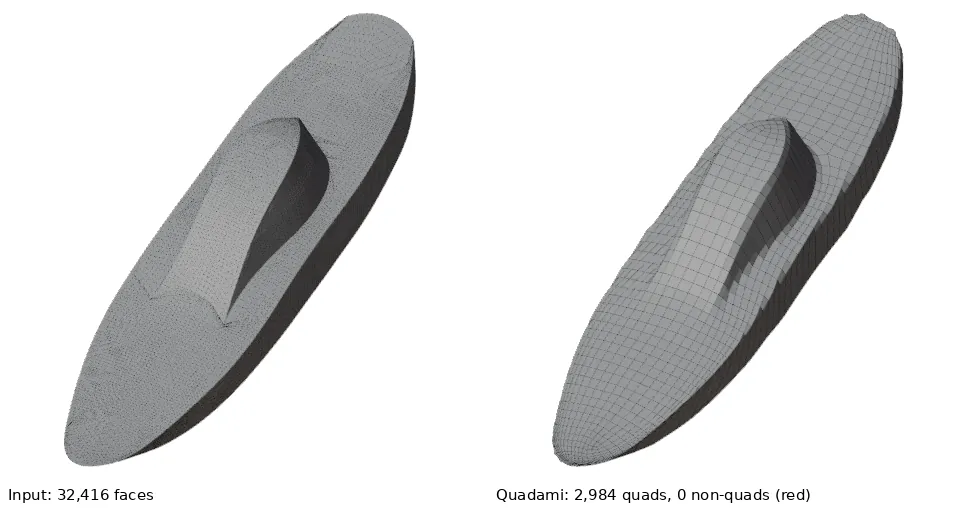
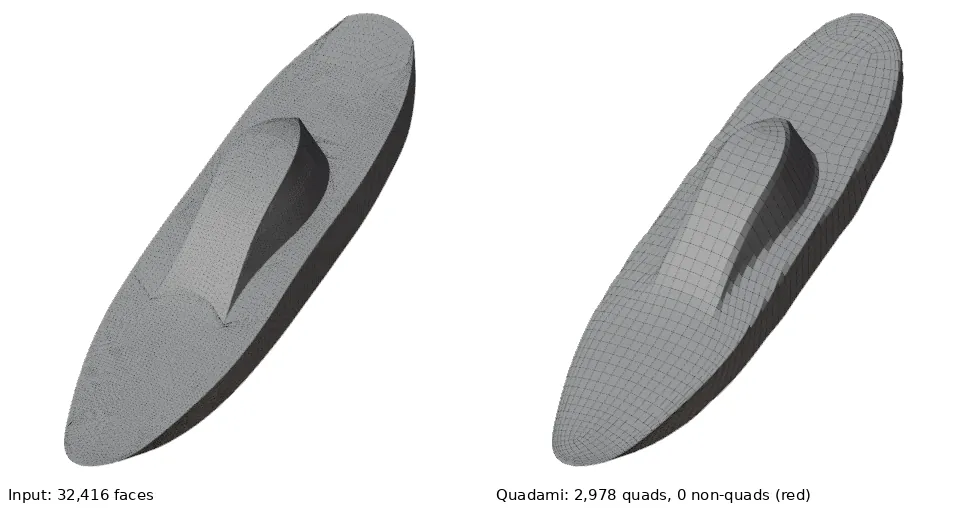
docs(docs): regenerate the public gallery at 0ffb31d for 0.3.0

diff --git a/docs/gallery/README.md b/docs/gallery/README.md
@@ -18,23 +18,23 @@ or pentagons, and a brush-folded spot is smoothed over rather than kept. The
 
 <!-- gallery-table:begin (generated by tools/gallery/gallery.py) -->
 
-Generated from `master` = `6152d16` by `tools/gallery/gallery.py`, Quality resolution, default settings unless noted, on x86_64 with 4 cores (time is wall time of the plain input there; a laptop differs). Columns after the bar: range over the plain input and 4 inputs moved by one float32 ulp, as Blender hands them over (the noise rule in tools/bench/README.md). Shape error: 99th percentile of the distance from the input to the output, in % of the input's diagonal (tools/bench/metrics.py; the panel does not show it).
+Generated from `master` = `0ffb31d` by `tools/gallery/gallery.py`, Quality resolution, default settings unless noted, on x86_64 with 4 cores (time is wall time of the plain input there; a laptop differs). Columns after the bar: range over the plain input and 4 inputs moved by one float32 ulp, as Blender hands them over (the noise rule in tools/bench/README.md). Shape error: 99th percentile of the distance from the input to the output, in % of the input's diagonal (tools/bench/metrics.py; the panel does not show it).
 
 | Mesh | Target | Quads | Non-quads | Folded faces | Holes | Time | Quads over 5 | Non-quads over 5 | Folded over 5 | Holes over 5 | Shape error over 5 |
 |---|---:|---:|---:|---:|---:|---:|---:|---:|---:|---:|---:|
-| [Spot (clean organic)](#spot-clean-organic) | 2,000 | 2,029 | 0 | 0 | 0 | 1.7 s | 2,029 | 0 | 0 | 0 | 0.1 % |
-| [Koala (organic sculpt)](#koala-organic-sculpt) | 3,000 | 2,962 | 0 | 0 | 0 | 3.6 s | 2,902-2,996 | 0 | 0 | 0 | 0.0 % |
-| [Wing nut (hard surface)](#wing-nut-hard-surface) | 2,000 | 1,974 | 0 | 0 | 0 | 1.1 s | 1,974 | 0 | 0 | 0 | 0.0 % |
-| [Boat (panels and sharp rims)](#boat-panels-and-sharp-rims) | 3,000 | 2,984 | 0 | 0 | 0 | 3.9 s | 2,984-3,037 | 0-6 | 0-3 | 0 | 0.0 % |
-| [Demosthenes (photoscan, open base)](#demosthenes-photoscan-open-base) | 5,000 | 5,025 | 0 | 0 | n/a (open) | 6.7 s | 4,829-5,066 | 0 | 0-8 | 0 | 0.1 % |
-| [Dyntopo sculpt (procedural)](#dyntopo-sculpt-procedural) | 5,000 | 5,009 | 0 | 0 | 0 | 9.8 s | 4,961-5,095 | 0 | 0 | 0 | 0.0 % |
-| [Sculpted box with folded input](#sculpted-box-with-folded-input) | 2,000 | 1,923 | 0 | 1 | 0 | 3.0 s | 1,872-1,926 | 0 | 0-4 | 0 | 0.2 % |
-| [Same box, Repair Folds on](#same-box-repair-folds-on) | 2,000 | 2,028 | 0 | 1 | 0 | 3.6 s | 2,022-2,060 | 0 | 1-2 | 0 | 0.2 % |
-| [Arming sword at 1,000 quads (thin parts)](#arming-sword-at-1000-quads-thin-parts) | 1,000 | 785 | 0 | 16 | 0 | 2.6 s | 785-849 | 0-20 | 6-18 | 0 | 2.1 %-6.0 % |
-| [Same sword at 3,000 quads](#same-sword-at-3000-quads) | 3,000 | 2,841 | 0 | 5 | 0 | 5.0 s | 2,841-2,952 | 0-2 | 5-17 | 0 | 1.0 %-1.2 % |
-| [Cat (dense sculpt, 1.7M triangles)](#cat-dense-sculpt-17m-triangles) | 3,000 | 3,048 | 0 | 0 | 0 | 16.1 s | 2,985-3,088 | 0 | 0 | 0 | 0.1 % |
-| [Hammer (raw scan)](#hammer-raw-scan) | 3,000 | 2,946 | 0 | 0 | 0 | 3.2 s | 2,938-2,954 | 0 | 0 | 0 | 0.0 % |
-| [Plane (thin wings)](#plane-thin-wings) | 3,000 | 3,041 | 0 | 0 | 0 | 2.2 s | 3,041 | 0 | 0 | 0 | 0.0 % |
+| [Spot (clean organic)](#spot-clean-organic) | 2,000 | 2,083 | 0 | 0 | 0 | 0.6 s | 2,083 | 0 | 0 | 0 | 0.1 % |
+| [Koala (organic sculpt)](#koala-organic-sculpt) | 3,000 | 3,020 | 0 | 0 | 0 | 1.7 s | 2,901-3,020 | 0 | 0 | 0 | 0.0 % |
+| [Wing nut (hard surface)](#wing-nut-hard-surface) | 2,000 | 2,004 | 0 | 0 | 0 | 0.5 s | 2,004 | 0 | 0 | 0 | 0.0 % |
+| [Boat (panels and sharp rims)](#boat-panels-and-sharp-rims) | 3,000 | 2,978 | 0 | 0 | 0 | 1.9 s | 2,956-3,128 | 0 | 0 | 0 | 0.0 % |
+| [Demosthenes (photoscan, open base)](#demosthenes-photoscan-open-base) | 5,000 | 4,955 | 0 | 2 | n/a (open) | 8.0 s | 4,918-5,009 | 0 | 0-7 | 0 | 0.1 % |
+| [Dyntopo sculpt (procedural)](#dyntopo-sculpt-procedural) | 5,000 | 4,854 | 0 | 0 | 0 | 5.7 s | 4,854-5,010 | 0 | 0 | 0 | 0.0 % |
+| [Sculpted box with folded input](#sculpted-box-with-folded-input) | 2,000 | 1,941 | 0 | 1 | 0 | 1.2 s | 1,832-1,941 | 0 | 0-5 | 0 | 0.2 % |
+| [Same box, Repair Folds on](#same-box-repair-folds-on) | 2,000 | 2,000 | 0 | 0 | 0 | 1.4 s | 2,000-2,013 | 0 | 0 | 0 | 0.2 % |
+| [Arming sword at 1,000 quads (thin parts)](#arming-sword-at-1000-quads-thin-parts) | 1,000 | 952 | 0 | 0 | 0 | 0.8 s | 927-1,007 | 0 | 0-8 | 0 | 0.7 %-2.8 % |
+| [Same sword at 3,000 quads](#same-sword-at-3000-quads) | 3,000 | 2,962 | 0 | 1 | 0 | 1.9 s | 2,946-3,027 | 0 | 0-3 | 0 | 0.1 %-0.2 % |
+| [Cat (dense sculpt, 1.7M triangles)](#cat-dense-sculpt-17m-triangles) | 3,000 | 3,001 | 0 | 0 | 0 | 9.8 s | 2,913-3,007 | 0 | 0 | 0 | 0.1 % |
+| [Hammer (raw scan)](#hammer-raw-scan) | 3,000 | 2,978 | 0 | 0 | 0 | 1.4 s | 2,951-3,031 | 0 | 0 | 0 | 0.0 % |
+| [Plane (thin wings)](#plane-thin-wings) | 3,000 | 2,940 | 0 | 0 | 0 | 1.0 s | 2,940 | 0 | 0 | 0 | 0.0 % |
 
 ### Spot (clean organic)
 
@@ -70,10 +70,10 @@ Panel rows flagged: none.
 
 ![Demosthenes (photoscan, open base): input left, Quadami output right](img/demosthenes.webp)
 
-Panel rows flagged: Handles: 3 lost.
+Panel rows flagged: Handles: 2 lost; Folded faces: 2 (1 twisted).
 
-> Panel: Output has 3 handles fewer than the input (tunnels or loops closed up, on 1 island): handles only a few quads around close up. A higher Target Quads keeps more of them
-> Panel: 1 % of the surface (20 spots) is thinner than one quad at 5000 target quads, a limit of Target Quads rather than a remeshing error: expect folds or lost parts there. At least 11000 target quads (an estimate) would fit a quad across about half of it, but each raise also reveals thinner parts, so it can take several raises; thickening those parts also works
+> Panel: Output has 2 handles fewer than the input (tunnels or loops closed up, on 1 island): handles only a few quads around close up. A higher Target Quads keeps more of them
+> Panel: 1 % of the surface (20 spots) is thinner than one quad at 5000 target quads, a limit of Target Quads rather than a remeshing error: expect folds or lost parts there. At least 12000 target quads (an estimate) would fit a quad across about half of it, but each raise also reveals thinner parts, so it can take several raises; thickening those parts also works
 > Panel: To thicken a part: Tab into Edit Mode, select it, press Alt+S (Shrink/Fatten) and move the mouse outwards.
 > Panel: Folded input: 500 faces in 364 spots, where the surface folds over itself. The quads there may come out messy or with holes.
 
@@ -81,7 +81,7 @@ Panel rows flagged: Handles: 3 lost.
 
 ![Dyntopo sculpt (procedural): input left, Quadami output right](img/sculpt_dyntopo.webp)
 
-Panel rows flagged: none.
+Panel rows flagged: Folded faces: 1 (1 twisted).
 
 > Panel: Folded input: 122 faces in 30 spots, where the surface folds over itself. The quads there may come out messy or with holes.
 
@@ -89,10 +89,10 @@ Panel rows flagged: none.
 
 ![Sculpted box with folded input: input left, Quadami output right](img/brush_box_relief.webp)
 
-Panel rows flagged: Folded faces: 1; Missing parts: up to 3 quad widths.
+Panel rows flagged: Folded faces: 3 (2 twisted); Missing parts: up to 3 quad widths.
 
 > Panel: Parts that are not thinner than a quad are missing (up to 3 quad widths away), so Target Quads may not be the cause. If raising it does not bring them back, please report it.
-> Panel: 4 % of the surface (4 spots) is thinner than one quad at 2000 target quads, a limit of Target Quads rather than a remeshing error: expect folds or lost parts there. At least 9800 target quads (an estimate) would fit a quad across about half of it, but each raise also reveals thinner parts, so it can take several raises; thickening those parts also works
+> Panel: 6 % of the surface (4 spots) is thinner than one quad at 2000 target quads, a limit of Target Quads rather than a remeshing error: expect folds or lost parts there. At least 18000 target quads (an estimate) would fit a quad across about half of it, but each raise also reveals thinner parts, so it can take several raises; thickening those parts also works
 > Panel: To thicken a part: Tab into Edit Mode, select it, press Alt+S (Shrink/Fatten) and move the mouse outwards.
 > Panel: Folded input: 91 faces in 26 spots, where the surface folds over itself. The quads there may come out messy or with holes.
 
@@ -100,7 +100,7 @@ Panel rows flagged: Folded faces: 1; Missing parts: up to 3 quad widths.
 
 ![Same box, Repair Folds on: input left, Quadami output right](img/brush_box_relief_repair.webp)
 
-Panel rows flagged: Folded faces: 1; Folds left: 16 faces in 14 spots.
+Panel rows flagged: Folds left: 16 faces in 14 spots.
 
 > Panel: 16 folded faces in 14 spots could not be repaired safely and were left as they were.
 
@@ -108,10 +108,9 @@ Panel rows flagged: Folded faces: 1; Folds left: 16 faces in 14 spots.
 
 ![Arming sword at 1,000 quads (thin parts): input left, Quadami output right](img/sword.webp)
 
-Panel rows flagged: Folded faces: 16; Missing parts: up to 5 quad widths.
+Panel rows flagged: none.
 
-> Panel: Parts thinner than one quad are missing (up to 5 quad widths away). At 1000 target quads there is no room for them: a limit of Target Quads, not a remeshing error. Raise Target Quads (1.5 to 8 times as many brought such parts back on most test models), though each raise can show finer parts still too thin; or thicken them.
-> Panel: 75 % of the surface (2 spots) is thinner than one quad at 1000 target quads, a limit of Target Quads rather than a remeshing error: expect folds or lost parts there. At least 7600 target quads (an estimate) would fit a quad across about half of it, but each raise also reveals thinner parts, so it can take several raises; thickening those parts also works
+> Panel: 78 % of the surface (4 spots) is thinner than one quad at 1000 target quads, a limit of Target Quads rather than a remeshing error: expect folds or lost parts there. At least 7700 target quads (an estimate) would fit a quad across about half of it, but each raise also reveals thinner parts, so it can take several raises; thickening those parts also works
 > Panel: To thicken a part: Tab into Edit Mode, select it, press Alt+S (Shrink/Fatten) and move the mouse outwards.
 > Panel: Folded input: 110 faces in 69 spots, where the surface folds over itself. The quads there may come out messy or with holes.
 
@@ -119,7 +118,7 @@ Panel rows flagged: Folded faces: 16; Missing parts: up to 5 quad widths.
 
 ![Same sword at 3,000 quads: input left, Quadami output right](img/sword_3k.webp)
 
-Panel rows flagged: Folded faces: 5.
+Panel rows flagged: Folded faces: 1.
 
 > Panel: 68 % of the surface (4 spots) is thinner than one quad at 3000 target quads, a limit of Target Quads rather than a remeshing error: expect folds or lost parts there. At least 12000 target quads (an estimate) would fit a quad across about half of it, but each raise also reveals thinner parts, so it can take several raises; thickening those parts also works
 > Panel: To thicken a part: Tab into Edit Mode, select it, press Alt+S (Shrink/Fatten) and move the mouse outwards.
@@ -147,7 +146,7 @@ Panel rows flagged: none.
 
 Panel rows flagged: none.
 
-> Panel: 10 % of the surface (19 spots) is thinner than one quad at 3000 target quads, a limit of Target Quads rather than a remeshing error: expect folds or lost parts there. At least 4400 target quads (an estimate) would fit a quad across about half of it, but each raise also reveals thinner parts, so it can take several raises; thickening those parts also works
+> Panel: 10 % of the surface (22 spots) is thinner than one quad at 3000 target quads, a limit of Target Quads rather than a remeshing error: expect folds or lost parts there. At least 4400 target quads (an estimate) would fit a quad across about half of it, but each raise also reveals thinner parts, so it can take several raises; thickening those parts also works
 > Panel: To thicken a part: Tab into Edit Mode, select it, press Alt+S (Shrink/Fatten) and move the mouse outwards.
 
 <!-- gallery-table:end -->
